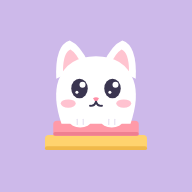
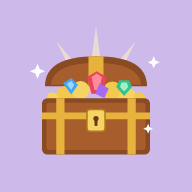
アイコンを宝石がいっぱいの宝箱に
Claude-Session: https://claude.ai/code/session_01SC3PxE4gq6zSupfbFk3S8A

Changed region(s): [[0.1562, 0.1562, 0.8125, 0.8125], [0.7812, 0.2812, 0.8438, 0.3438]]

diff --git a/sw.js b/sw.js
@@ -1,6 +1,6 @@
 // 電波がなくても開けるように、ページ一式をスマホの中に置いておく。
 // 開いたときは置いてあるものをすぐ出し、電波があれば裏で新しいものに入れ替える（次に開いたときに新しくなる）。
-const CACHE = "set-checker-v31";
+const CACHE = "set-checker-v32";
 const FILES = ["./", "index.html", "manifest.webmanifest", "icon-192.png", "icon-512.png", "data/author.enc", "data/koheya.enc"];
 
 self.addEventListener("install", (e) => {
